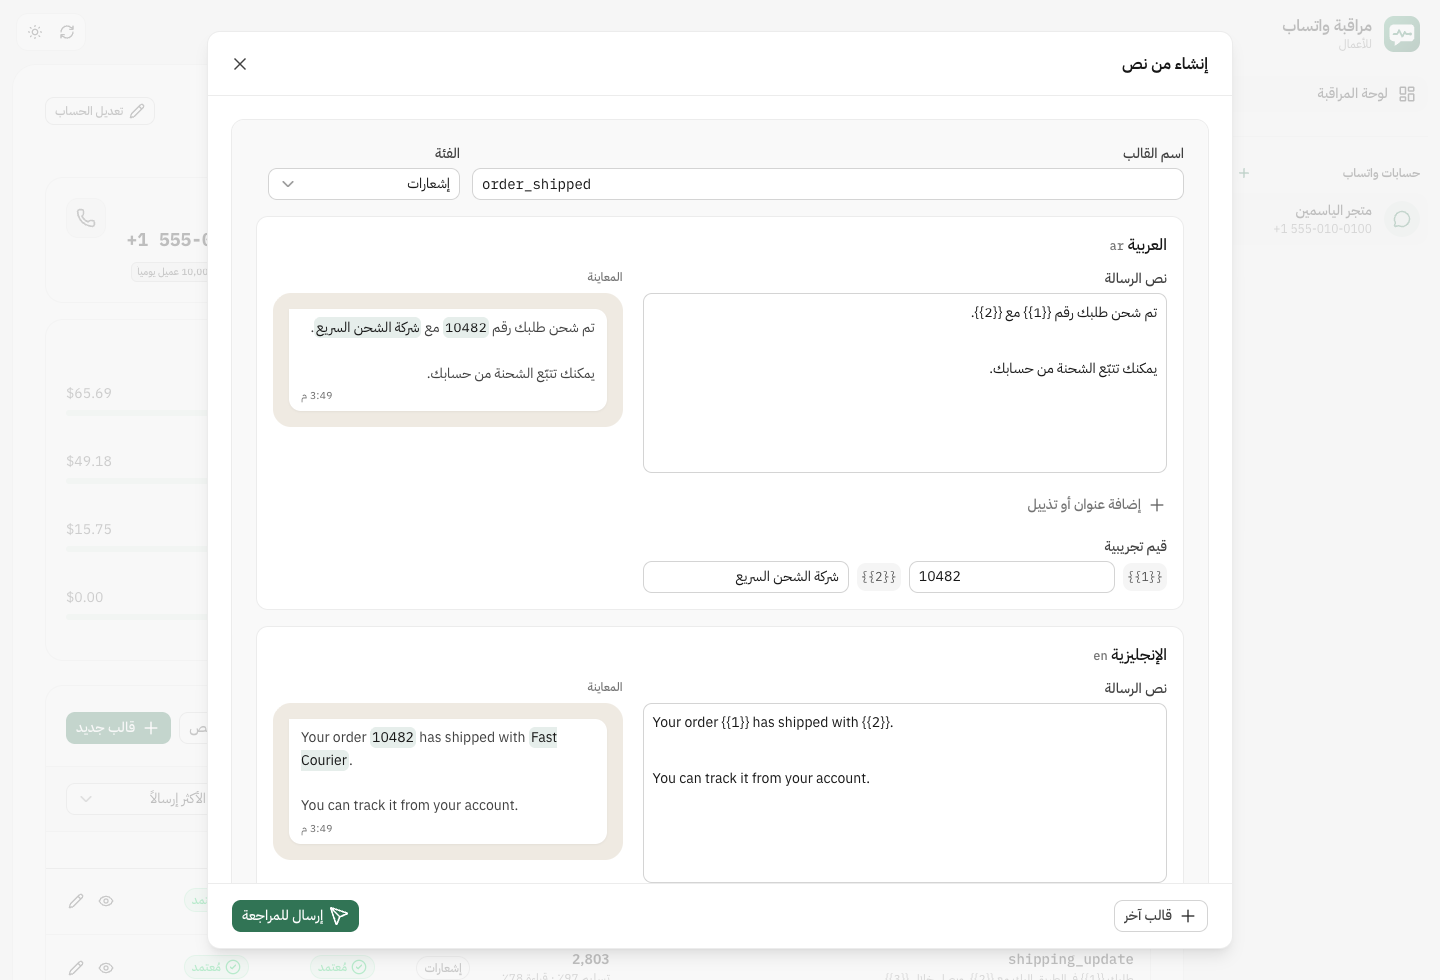
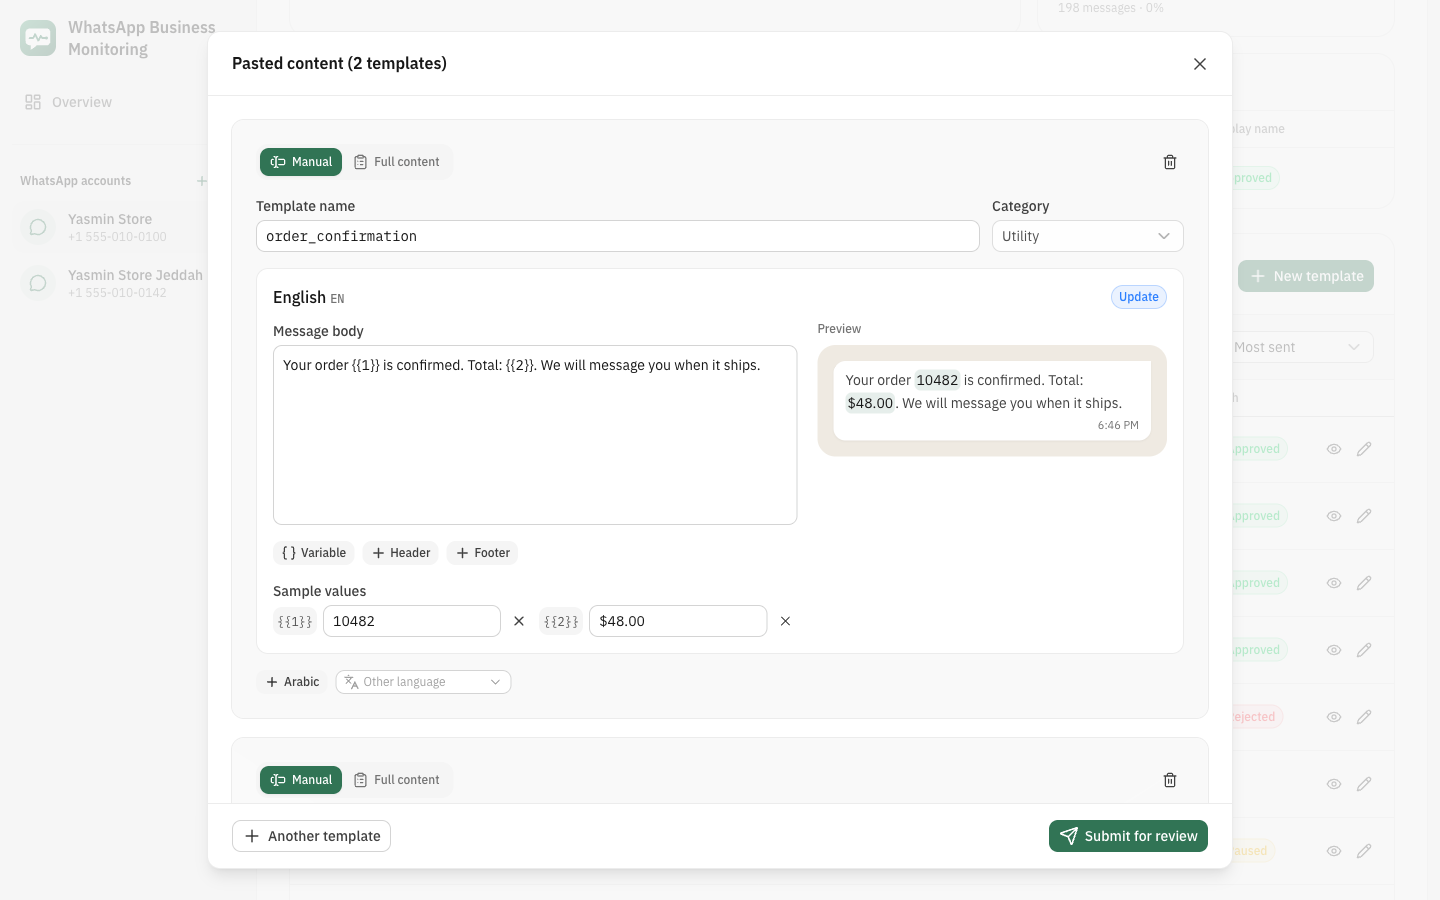
docs: English screenshots and a shorter README
- New screenshots from the demo, in the English interface: the
  overview, an account, a template, editing, pasted content, the card
  view, dark mode, and one in Arabic.
- The README is English only and shorter.
- The demo store's names follow the interface language, and template
  previews show the interface language's version when there is one.

diff --git a/server/utils/demo.ts b/server/utils/demo.ts
@@ -30,7 +30,13 @@ const STORES: DemoStore[] = [
   },
 ]
 
-const storeFor = (id?: unknown) => STORES.find(store => store.id === id) ?? STORES[0]!
+// The fictional store speaks the page's language, so screenshots read naturally in either one.
+function localized(store: DemoStore): DemoStore {
+  return requestedLocale() === 'en' ? { ...store, label: store.name, phone: { ...store.phone, verified_name: store.name } } : store
+}
+
+const storeFor = (id?: unknown) => localized(STORES.find(store => store.id === id) ?? STORES[0]!)
+const stores = () => STORES.map(localized)
 const COST: Record<string, number> = { UTILITY: 0.0107, MARKETING: 0.0436, AUTHENTICATION: 0.0102 }
 
 interface DemoTemplate {
@@ -109,7 +115,7 @@ function sendsOn(entry: DemoTemplate, index: number, date: Date, store: DemoStor
 
 export function demoAccounts(): { data: AccountSummary[], dir: string } {
   return {
-    data: STORES.map(store => ({
+    data: stores().map(store => ({
       id: store.id,
       label: store.label,
       file: `~/.config/whatsapp-templates/${store.id}.env`,
@@ -125,7 +131,9 @@ export function demoAccounts(): { data: AccountSummary[], dir: string } {
 }
 
 export function demoDiscover() {
-  return { data: [{ waba_id: STORES[0]!.waba, name: STORES[0]!.name, phones: [STORES[0]!.phone] }] }
+  const store = stores()[0]!
+
+  return { data: [{ waba_id: store.waba, name: store.name, phones: [store.phone] }] }
 }
 
 export function demoTemplates() {
@@ -134,7 +142,7 @@ export function demoTemplates() {
 
 export function demoSummary(): { data: AccountStats[] } {
   return {
-    data: STORES.map((store) => {
+    data: stores().map((store) => {
       const overview = demoOverview(store.id)
 
       return {

diff --git a/app/components/TemplatesPanel.vue b/app/components/TemplatesPanel.vue
@@ -171,7 +171,7 @@ const columns = computed<TableColumn<TemplateGroup>[]>(() => [
     meta: { class: { td: 'max-w-0 w-full min-w-44' } },
     cell: ({ row }) => h('div', { class: 'min-w-0' }, [
       h('p', { class: 'font-mono text-sm font-medium text-highlighted' }, [h('bdi', { dir: 'ltr' }, row.original.name)]),
-      h('p', { class: 'mt-0.5 truncate text-xs text-muted', dir: 'auto' }, bodyOf(row.original.items[0]).split('\n').find(line => line.trim()) ?? ''),
+      h('p', { class: 'mt-0.5 truncate text-xs text-muted', dir: 'auto' }, bodyOf(previewItem(row.original)).split('\n').find(line => line.trim()) ?? ''),
     ]),
   },
   {

diff --git a/app/components/TemplateSplit.vue b/app/components/TemplateSplit.vue
@@ -21,7 +21,7 @@ const tabs = computed(() => (group.value?.items ?? []).map(entry => ({
 })))
 
 const sent = (item: TemplateGroup) => statsFor(item.items.map(entry => entry.id))?.sent ?? 0
-const firstLine = (item: TemplateGroup) => templateText(item.items[0]!).body.split('\n').find(line => line.trim()) ?? ''
+const firstLine = (item: TemplateGroup) => templateText(previewItem(item)).body.split('\n').find(line => line.trim()) ?? ''
 
 watch(() => group.value?.name, () => {
   activeId.value = group.value?.items[0]?.id

diff --git a/app/utils/format.ts b/app/utils/format.ts
@@ -58,3 +58,6 @@ export function templateText(template: MetaTemplate) {
 }
 
 export const timeOfDay = (date: Date | number) => new Intl.DateTimeFormat(intlLocale(), { hour: 'numeric', minute: '2-digit' }).format(date)
+
+/** The language of a template that previews show: the interface language when it has it. */
+export const previewItem = (group: TemplateGroup): MetaTemplate => group.items.find(item => item.language.split('_')[0] === locale.value) ?? group.items[0]!

diff --git a/app/components/TemplateCards.vue b/app/components/TemplateCards.vue
@@ -6,7 +6,7 @@ const emit = defineEmits<{ open: [name: string, mode: 'view' | 'edit', id?: stri
 const { statsFor, analytics, analyticsLoading } = useManager()
 
 const preview = (group: TemplateGroup): TemplateText => {
-  const text = templateText(group.items[0]!)
+  const text = templateText(previewItem(group))
 
   return { header: text.header, body: text.body, footer: text.footer, examples: text.examples }
 }

diff --git a/README.md b/README.md
@@ -4,62 +4,58 @@
 
 # WhatsApp Manager Monitoring
 
-**Every WhatsApp template, how it performs and what it costs, on one screen.**<br>
-A free, open-source dashboard for the WhatsApp Business Platform. It runs on your machine, and your access tokens never leave it.
+**Your WhatsApp templates, how they perform and what they cost, on one screen.**<br>
+A free, open-source dashboard for the WhatsApp Business Platform. It runs on your machine; your tokens never leave it.
 
 [![CI](https://github.com/Haythamasalama/whatsapp-manager-monitoring/actions/workflows/ci.yml/badge.svg)](https://github.com/Haythamasalama/whatsapp-manager-monitoring/actions/workflows/ci.yml)
 [![License: MIT](https://img.shields.io/badge/license-MIT-0F0F12.svg)](LICENSE)
 ![Nuxt 4](https://img.shields.io/badge/Nuxt-4-317455?logo=nuxt&logoColor=white)
 ![Node 22.21+ or 24.11+](https://img.shields.io/badge/node-22.21%2B%20%7C%2024.11%2B-317455?logo=node.js&logoColor=white)
 
-[Features](#features) · [Get started](#get-started) · [Try the demo](#try-it-with-demo-data) · [Contribute](CONTRIBUTING.md)
+[Features](#features) · [Get started](#get-started) · [Demo](#try-the-demo) · [Contribute](CONTRIBUTING.md)
 
-<img src="docs/screenshots/dashboard.png" width="860" alt="The dashboard of a fictional store: this month's cost, messages sent, the phone number's quality, a daily cost chart, cost by message type, and the templates table with sends, delivery and read rates per template.">
+<img src="docs/screenshots/overview.png" width="860" alt="The overview of two accounts of a fictional store: this month's cost, messages sent, templates that need attention, a daily cost chart, the cost per account and a table of accounts.">
 
 </div>
 
 ## Features
 
-- **All accounts on one page.** The home page adds every account up: this month's cost and messages, the templates and those waiting for review, rejected or paused, the cost per account, and each number's quality.
-- **Templates at a glance.** Every template on the account, grouped by name, with a column per language for its review status, plus its category and quality.
-- **Three views.** A table, a list with the selected template beside it, or cards with a preview of each message. The page remembers your choice.
-- **How each template performs.** Sent, delivered, read, cost and button clicks over the last 30 days, with a daily chart, from Meta's template analytics. Sort by the most sent.
-- **Number health.** Each phone number's status, quality, daily sending limit and display-name review.
-- **What you spend.** This month's cost and message count, per day and per message type (marketing, utility, authentication, service).
-- **Preview like the customer.** The message rendered as a WhatsApp bubble, with the sample values filled in, line by line in the right direction for Arabic and English.
-- **Create and edit, two ways.** *Manual*: header, body, footer, and a sample value per `{{n}}`, with buttons to add or remove a variable (the rest are renumbered), a header or a footer. *Full content*: the whole template as plain labelled text with a live preview. Meta's rules are checked before anything is sent; buttons and media headers are kept as they are when you edit.
-- **Copy any template.** One click copies it as text, with every language and sample value, ready to change and paste back as a new one:
+- **Every account on one page.** Cost, messages, templates waiting for review and each number's quality, added up across accounts.
+- **Templates per account.** Review status per language, category, quality, and sent, delivered, read and cost over 30 days. Table, list or card view.
+- **Spend.** This month's cost per day and per message type.
+- **Create and edit.** Fill in the fields or paste the whole template as text, with a live WhatsApp preview. Meta's rules are checked before anything is sent.
+- **Create or update from pasted content.** New templates are created, changed ones updated, unchanged ones skipped. Any template can be copied in the same format:
 
   ```
-  الاسم: order_confirmation
-  الفئة: إشعارات
+  Name: order_confirmation
+  Category: Utility
   ----------------
-  اللغة: ar
-  تم تأكيد طلبك رقم {{1}}.
+  Language: en
+  Your order {{1}} is confirmed.
 
   {{1}} = 10482
   ```
-- **Create or update from template content.** Paste one or several templates in that format. A template that doesn't exist yet is created; one that does is updated with the new text, keeping its category and sample values. Unchanged or locked templates (under review, for example) are skipped.
-- **Any language.** Arabic and English first, plus any language Meta supports.
-- **Always current.** Data refreshes when you come back to the tab, and every minute while a template waits for review. A notification tells you when a template is approved, rejected or paused, including what changed since your last visit.
-- **Several accounts.** Add, edit and switch between WhatsApp Business Accounts, each shown with its WhatsApp profile photo. Paste a token and it finds the accounts and phone numbers it can reach.
-- **Private.** No account, no cloud, no tracking. The server only listens on your machine.
-
-The interface is in Arabic (right to left) or English, in light and dark mode. The page remembers your choice.
+- **Always current.** Data refreshes when you come back to the tab, and a notification tells you when a template is approved, rejected or paused.
+- **Number health.** Status, quality, daily limit and display-name review for every number.
+- **Several accounts, any language.** Arabic or English interface, light or dark, and templates in any language Meta supports.
 
 ## Screenshots
 
-| Template preview and numbers | Editing a template |
+| Account | Template |
 |:--:|:--:|
-| <img src="docs/screenshots/template-preview.png" alt="A template preview with its status, category, variables and 30-day sends, deliveries, reads and cost."> | <img src="docs/screenshots/template-edit.png" alt="Editing a template: the body, header and footer fields, sample values per variable and a live WhatsApp preview."> |
-| **Create or update from pasted content** | **Dark mode** |
-| <img src="docs/screenshots/create-from-text.png" alt="Pasted text turned into a draft with Arabic and English bodies, sample values and previews."> | <img src="docs/screenshots/dashboard-dark.png" alt="The dashboard in dark mode."> |
+| <img src="docs/screenshots/dashboard.png" alt="An account: cost, messages, balance, number, daily cost, cost by type, number health and the templates table."> | <img src="docs/screenshots/template-preview.png" alt="A template's preview, details and 30-day numbers."> |
+| **Editing** | **Pasted content** |
+| <img src="docs/screenshots/template-edit.png" alt="Editing a template with fields, sample values and a live preview."> | <img src="docs/screenshots/create-from-text.png" alt="Two pasted templates: one update and one new template."> |
+| **Card view** | **Dark mode** |
+| <img src="docs/screenshots/views-cards.png" alt="Templates as cards with a message preview each."> | <img src="docs/screenshots/dashboard-dark.png" alt="The overview in dark mode."> |
+| **Arabic, right to left** | |
+| <img src="docs/screenshots/arabic.png" alt="The overview in Arabic."> | |
 
-Every screenshot uses the built-in demo data: a fictional store with made-up numbers.
+All screenshots use the built-in demo data.
 
 ## Get started
 
-You need Node.js 22.21+ or 24.11+ (see `.nvmrc`) and [Bun](https://bun.sh) or npm.
+You need Node.js 22.21+ or 24.11+ and [Bun](https://bun.sh) or npm.
 
 ```bash
 git clone https://github.com/Haythamasalama/whatsapp-manager-monitoring.git
@@ -68,78 +64,31 @@ bun install
 bun run dev
 ```
 
-Open <http://127.0.0.1:3210> and choose **إضافة حساب** (add account). You need:
+Open <http://127.0.0.1:3210>, choose **Add account** and paste a Meta system user token with `whatsapp_business_management`. The app finds the business accounts and numbers it can reach.
 
-- a Meta **system user access token** with the `whatsapp_business_management` permission;
-- the **WhatsApp Business Account ID** (WABA ID). Paste the token and the app finds it for you.
-
-## Try it with demo data
-
-No Meta account needed:
+## Try the demo
 
 ```bash
 bun run demo
 ```
 
-Then open <http://127.0.0.1:3211>. Nothing is sent to Meta and no file is written.
+Open <http://127.0.0.1:3211>. Nothing is sent to Meta and no file is written.
 
-## Where accounts are stored
+## Accounts and security
 
-Each account is one file in `~/.config/whatsapp-templates/`. Set `WHATSAPP_TEMPLATES_DIR` in `.env` to use another folder (see `.env.example`). The app writes these files itself, with `600` permissions, after checking the token against Meta:
+- Each account is one file in `~/.config/whatsapp-templates/` (or `WHATSAPP_TEMPLATES_DIR`), written with `600` permissions.
+- The server listens on `127.0.0.1` only. No response contains a token, and `/api` refuses other hosts and requests without its `X-Requested-With` header.
+- There is no login, so don't deploy it to a public server. Found a vulnerability? See the [security policy](SECURITY.md).
 
-```bash
-# ~/.config/whatsapp-templates/main.env
-WHATSAPP_LABEL='My store'
-WHATSAPP_TOKEN=...
-WHATSAPP_WABA_ID=...
-WHATSAPP_VERSION=v23.0
-```
+## Limits from Meta
 
-Keep that folder outside the project. `.gitignore` also ignores `*.env` and `accounts/` in case one ends up here.
-
-## Security
-
-- The server listens on `127.0.0.1` only, and tokens stay in it: no API response contains one.
-- `/api` refuses any `Host` other than `127.0.0.1` or `localhost`, and any request without the `X-Requested-With: whatsapp-manager` header. Another site open in your browser cannot call it, because that header forces a CORS preflight the server never answers.
-- There is no login, so do not deploy it to a public server as it is.
-
-Found a vulnerability? Please see the [security policy](SECURITY.md).
-
-## Limits that come from Meta
-
-- **Balance.** Meta has no API for the balance of an account paid by card. A credit line's balance shows only when the token also has `business_management`.
-- **Template analytics** must be confirmed once per account, in WhatsApp Manager or with the app's **تفعيل الإحصاءات** button. Meta cannot turn it off again.
-- Reads and button clicks are counted for 7 days after a message is sent.
-- An approved template can be edited once every 24 hours, up to 10 times in 30 days. Its name and language never change.
-
-## Built with
-
-[Nuxt 4](https://nuxt.com), [Nuxt UI 4](https://ui.nuxt.com), Tailwind CSS 4 and the [WhatsApp Cloud API](https://developers.facebook.com/documentation/business-messaging/whatsapp).
-
-## Contributing
-
-Bug reports, ideas and pull requests are welcome. Start with the [contributing guide](CONTRIBUTING.md), and please follow the [Code of Conduct](CODE_OF_CONDUCT.md).
+- There is no balance API for accounts paid by card.
+- Template analytics must be turned on once per account (the app has a button), and can't be turned off.
+- Reads and clicks are counted for 7 days after sending.
+- An approved template can be edited once every 24 hours, up to 10 times in 30 days.
 
 ## License
 
-[MIT](LICENSE) · Made by [Haytham A. Salama](https://haythamasalama.me)
+[MIT](LICENSE) · Made by [Haytham A. Salama](https://haythamasalama.me) · Built with [Nuxt](https://nuxt.com) and [Nuxt UI](https://ui.nuxt.com).
 
-WhatsApp is a trademark of Meta Platforms, Inc. This project is not affiliated with, endorsed or sponsored by Meta or WhatsApp.
-
----
-
-<div dir="rtl">
-
-## بالعربية
-
-**مراقبة واتساب الأعمال**: لوحة مجانية ومفتوحة المصدر لمراقبة قوالب رسائل واتساب لحساب أو أكثر. تعرض حالة مراجعة كل قالب، وعدد مرات إرساله، ونسب التسليم والقراءة، وتكلفة الشهر، وتتيح إنشاء القوالب وتعديلها وإنشاءها أو تحديثها بلصق محتواها.
-
-تعمل على جهازك فقط: تُحفظ رموز الوصول في ملفات داخل `~/.config/whatsapp-templates/`، ولا تصل إلى المتصفح.
-
-```bash
-bun install
-bun run dev    # حساباتك الحقيقية
-bun run demo   # بيانات تجريبية لمتجر وهمي
-```
-
-</div>
+WhatsApp is a trademark of Meta Platforms, Inc. This project is not affiliated with or endorsed by Meta.
